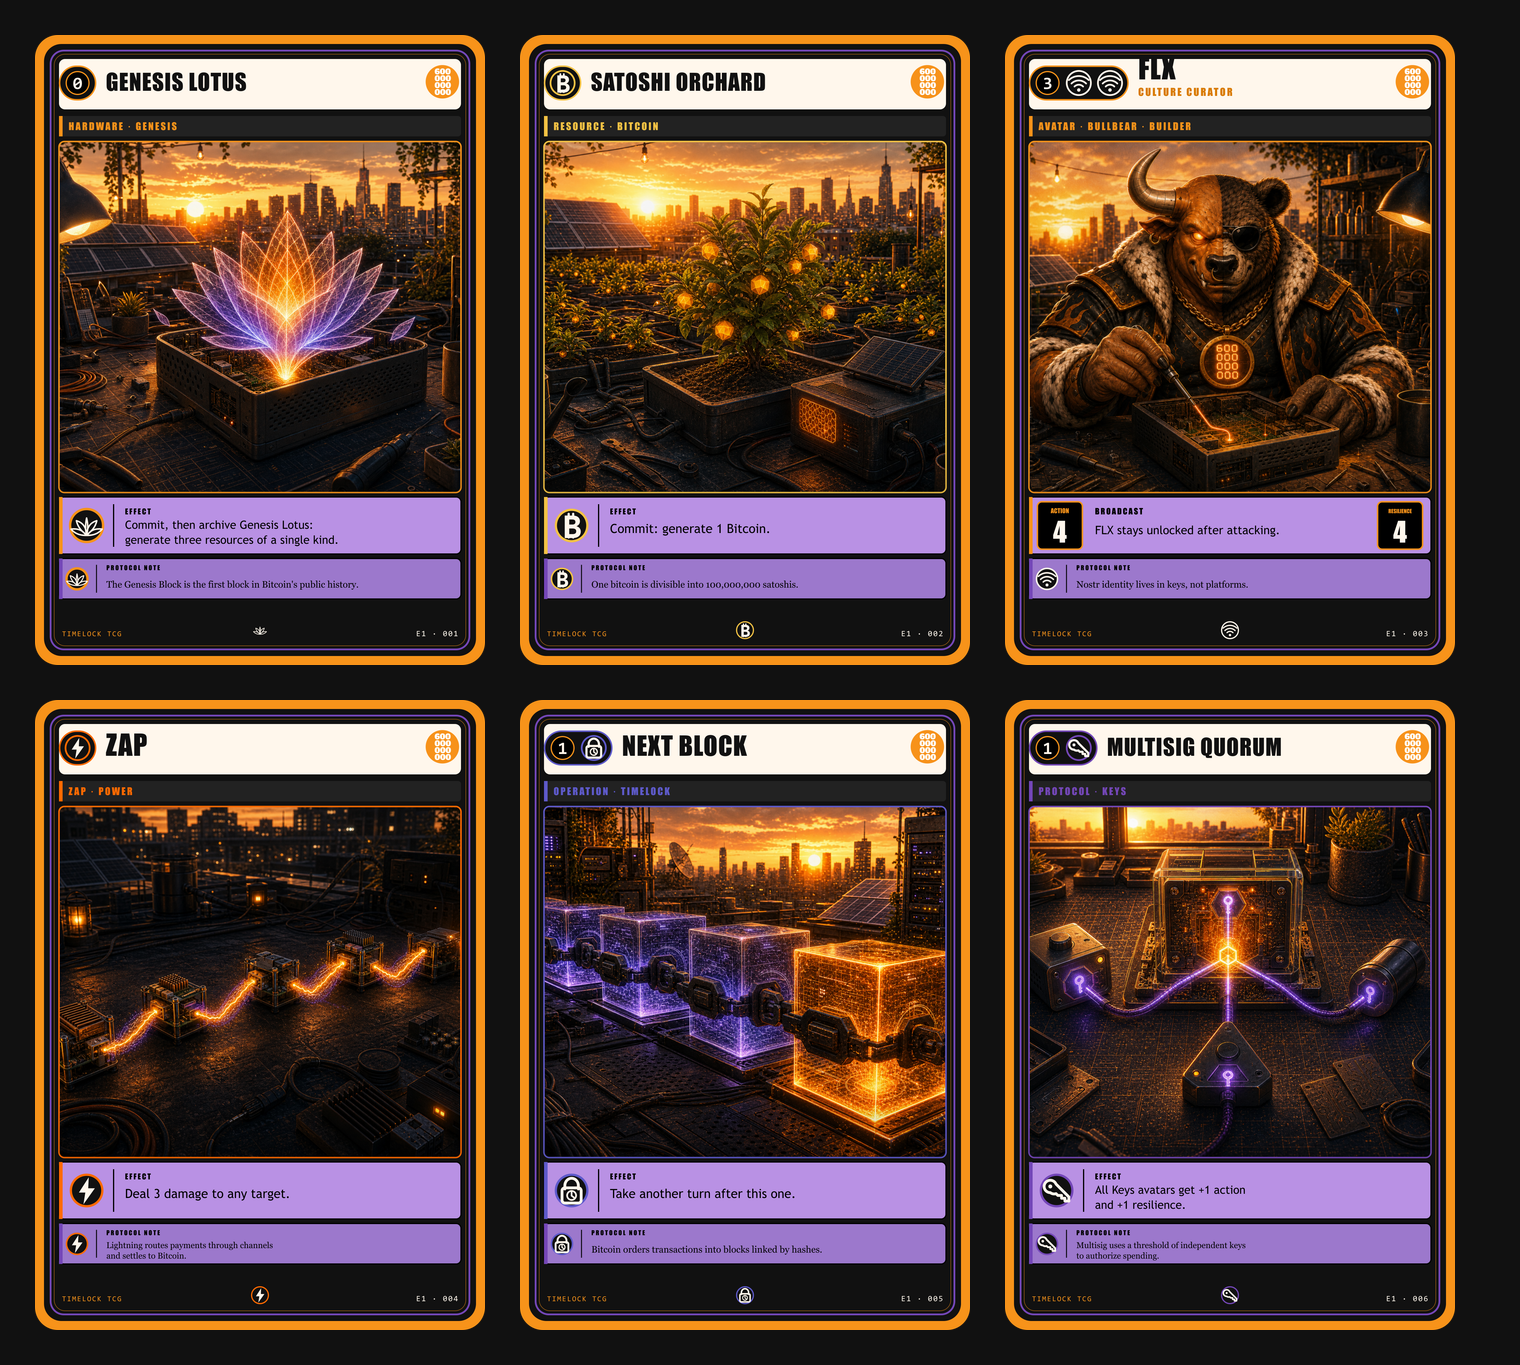
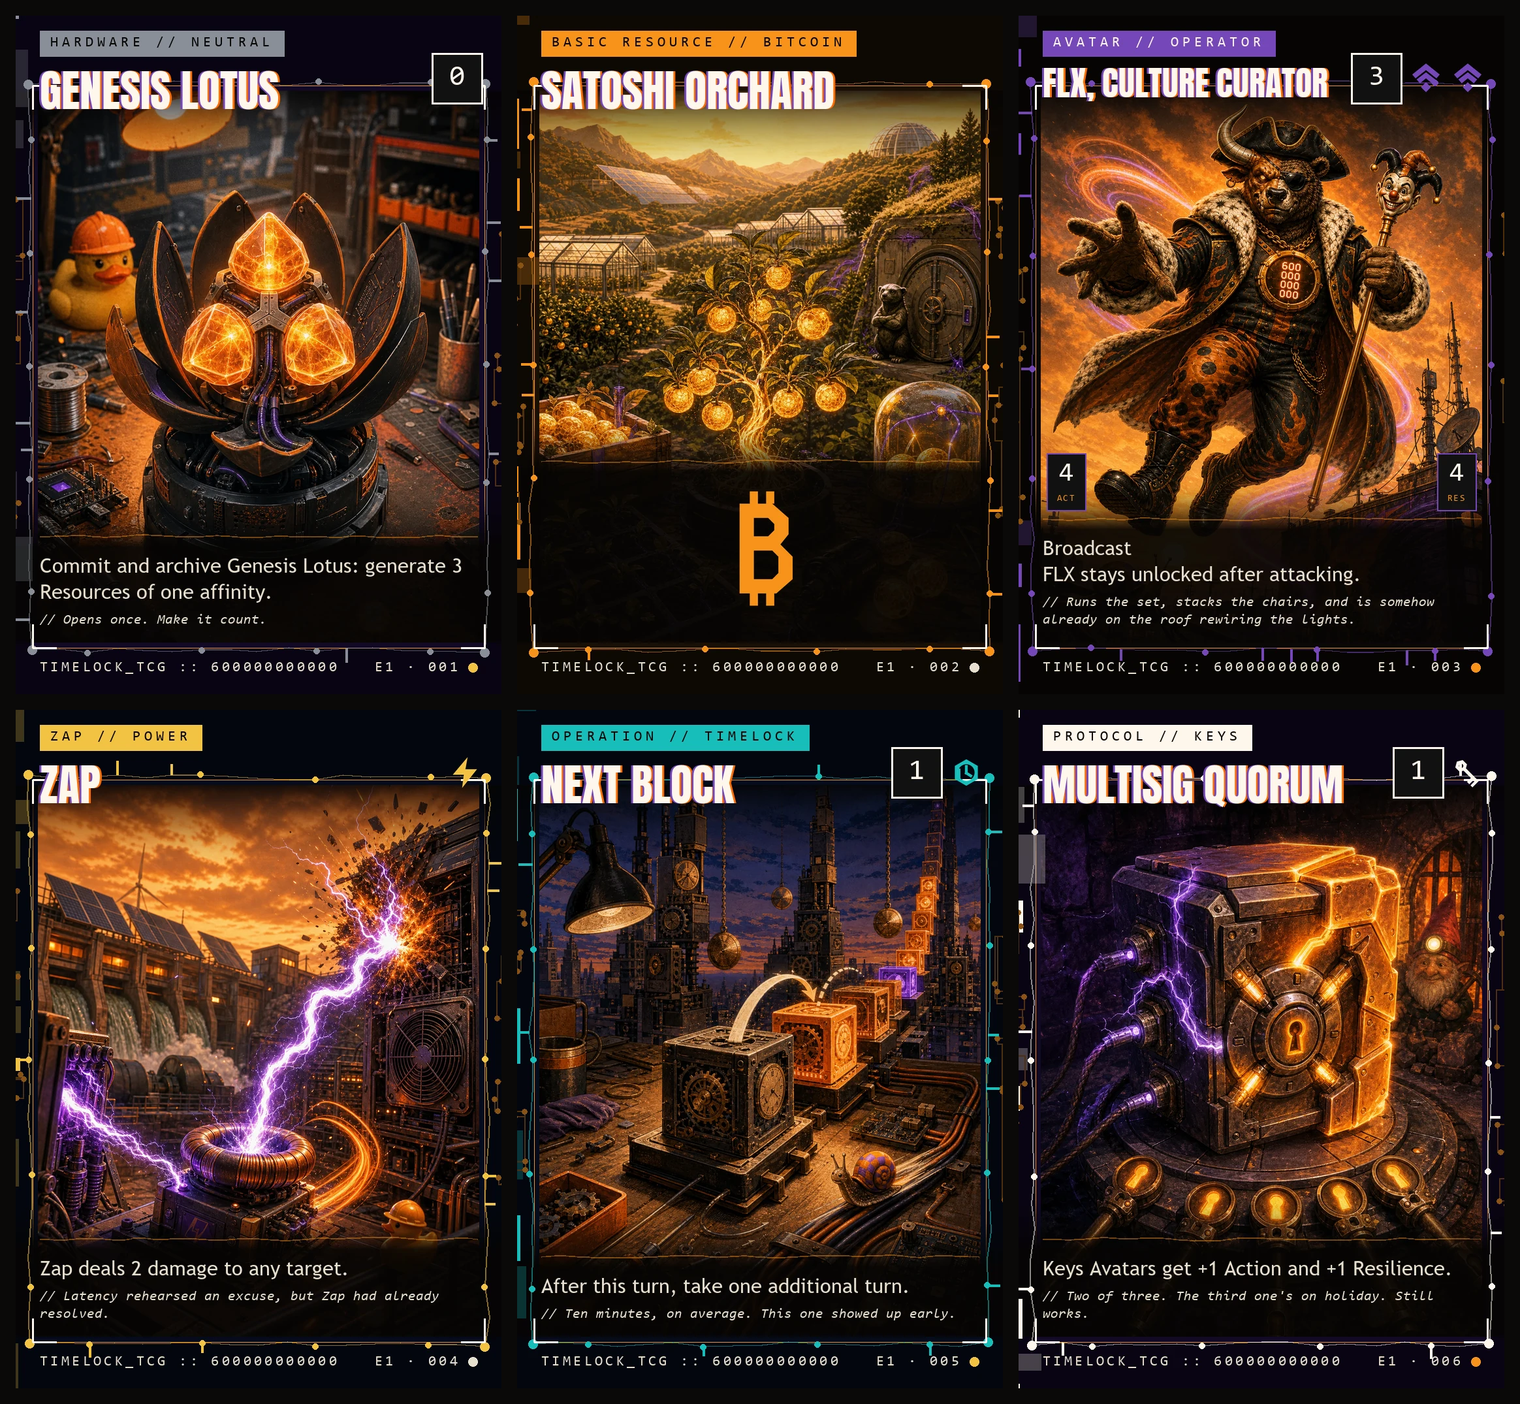
feat: audit the site's imagery and lock the website art prompts
The image audit behind this: card faces resolve live and are current, but the
five hero sections stretch 576px portrait world-plates across full desktop
width, two rulebook banners are flat vector diagrams with Arial type, the
social preview is the bare logo, and rules.html showed a contact sheet of a
card design that no longer exists.

WEBSITE-ART-PROMPTS.md locks ten generation prompts in the E1 v3 positive-
cypherpunk voice: seven page heroes (2880x1280, left third reserved for the
HTML headline), two illustrated banner replacements, one og card with a
composite-ready logo band. Each entry carries its final file path and the one
line of wiring that flips when the file lands; nothing is wired before it
exists because publish_site.py refuses missing assets.

The contact sheet is derived, not generated: rebuilt from six current faces,
and its caption stops describing the separate-text-plate design that the sheet
no longer shows.

diff --git a/site/rules.html b/site/rules.html
@@ -617,7 +617,7 @@ Cards may print <em>can&#39;t</em> for <em>cannot</em>.</p>
 <td>A factual learning note; no gameplay effect.</td>
 </tr>
 </tbody></table>
-<figure class="card-system-preview"><img src="../art/cards/600B-E1-iconic-six-contact-sheet.png" alt="Edition One card-system examples" loading="lazy"><figcaption>First six E1 pipeline proofs. Rules text and educational notes are rendered separately from the art.</figcaption></figure>
+<figure class="card-system-preview"><img src="../art/cards/600B-E1-iconic-six-contact-sheet.png" alt="Six Edition One card faces in the Node Runner frame" loading="lazy"><figcaption>Six Edition One faces in the Node Runner frame — the full illustration on the card, rules printed in full below it.</figcaption></figure>
 <h3 id="3-1-affinity">3.1 Affinity</h3>
 
 <p>A non-Resource card&#39;s affinity is normally defined by the specific Resource symbols in

diff --git a/art/prompts/WEBSITE-ART-PROMPTS.md b/art/prompts/WEBSITE-ART-PROMPTS.md
@@ -1,0 +1,138 @@
+# Website Art-Director Prompt Lock
+
+- Version: `600B-WEB-art-director-v1-positive-cypherpunk`
+- Assets: **10**
+- Tone: **positive cypherpunk — the future already works** (same lock as `600B-E1-art-director-v3`)
+- Visible artwork: **no text, letters, numbers, logos, card frames or interfaces** — every word on the website is set in HTML on top of the image
+- Character identity: **join.600.wtf Detailed ·front** references only; never invent people
+
+## Why these exist
+
+The audit of 2026-08-16 found the site's five hero sections stretch 576-px portrait
+world-plates to full desktop width, two rulebook banners are flat vector diagrams,
+and the social preview is the bare logo on black. Card faces on the site resolve
+live from `art/cards/node-runner-web/` and are already current; the world-plates
+stay in service as the arena stage backdrops and as palette references. This
+document replaces only the stretched heroes, the two flat banners and the social
+card.
+
+## Delivery standard
+
+- Generate at or above the target size, downscale to it, save WebP quality 90
+  (the og card saves PNG — link previews still mistrust WebP).
+- Every hero carries HTML type over its left third: keep that third calm, dark
+  and free of focal detail. The site adds its own black gradient on top.
+- File names below are final; the wiring table at the end lists the one line per
+  page that flips when a file lands. Do not wire a slot before its file exists —
+  `publish_site.py` refuses missing assets.
+
+---
+
+## WEB-01 · Homepage hero
+
+- **File:** `art/site/hero-index.webp` · **2880 × 1280**
+- **Slot:** `site/index.html` `.hero::before` (replaces stretched `timelock.png`)
+
+**Prompt**
+
+Create one finished 2880x1280 panoramic illustration for the homepage of 600 BILLION Timelock TCG, an unmistakably positive cypherpunk world where the future already works: self-owned identity, sound money and open peer-to-peer infrastructure built by capable friends. Show agency, hospitality, competence, humor and shared abundance with confident playful YOLO-but-verify energy. Use cinematic editorial realism with tactile screenprint grain, a matte-black core, warm Bitcoin-orange highlights and ultraviolet-purple accents. Scene: the whole world in one establishing shot — a rooftop commons at first sunrise light, mesh antennas and hand-built radios in the near ground, a flourishing orchard commons and blackened-steel workshop below, a warm city skyline waking up behind, one thin timelock beacon pulsing violet on the horizon. Composition: wide 9:4 panorama; all focal detail and the brightest light in the right two thirds; the left third falls to calm matte black for the headline. Late golden-hour warmth against deep ultraviolet shadows, believable open-source hardware, no people. Reference (world-and-palette): art/world-plates/timelock.png — treat as palette and material guidance, not layout. No card frame, title, text, letters, numbers, logos, watermark or interface. No generic hooded hacker, corporate Web3 advertising, dystopian surveillance, collapse porn, scarcity panic, weapons-first mood, grimdark lighting, helplessness or despair. Cypherpunk means freedom technology in daylight, not cyberpunk doom. No floating circles, wireframe polygons, ornamental geometry, meaningless crypto glyphs or repeated procedural patterns. Coherent single scene, polished key art.
+
+## WEB-02 · Rules hero
+
+- **File:** `art/site/hero-rules.webp` · **2880 × 1280**
+- **Slot:** `site/rules.html` `.hero` background (replaces `banner-01` stretched to 600 px tall)
+
+**Prompt**
+
+Create one finished 2880x1280 panoramic illustration for the rulebook page of 600 BILLION Timelock TCG, an unmistakably positive cypherpunk world where the future already works. Use cinematic editorial realism with tactile screenprint grain, a matte-black core, warm Bitcoin-orange highlights and ultraviolet-purple accents. Scene: the long shared table of the Palace of Culture community workshop set for a teaching session — blackened steel and timber, warm work lamps, neat rows of glowing orange resource markers and violet shield tokens laid out like a lesson, an open field manual with blank pages, coffee, plants, tools on shadow boards behind. The order of the table tells the story: everything has a place, every rule is learnable. Composition: wide 9:4 panorama, table receding to the right, focal lamp-pool on the right half, left third calm matte black for the headline. Warm practical lighting, no people. No card frame, title, text, letters, numbers, logos, watermark or interface; the manual's pages are blank. No generic hooded hacker, corporate Web3 advertising, dystopian surveillance, collapse porn, scarcity panic, weapons-first mood, grimdark lighting, helplessness or despair. No floating circles, wireframe polygons, ornamental geometry, meaningless crypto glyphs or repeated procedural patterns. Coherent single scene, polished key art.
+
+## WEB-03 · Quickstart hero
+
+- **File:** `art/site/hero-quickstart.webp` · **2880 × 1280**
+- **Slot:** `site/quickstart.html` hero background (replaces stretched `power.png`)
+
+**Prompt**
+
+Create one finished 2880x1280 panoramic illustration for the quickstart page of 600 BILLION Timelock TCG, an unmistakably positive cypherpunk world where the future already works: self-owned identity, sound money and open peer-to-peer infrastructure built by capable friends. Use cinematic editorial realism with tactile screenprint grain, a matte-black core, warm Bitcoin-orange highlights and ultraviolet-purple accents. Identity locks: reproduce FLX from art/references/join-detailed-front/flx.png and MadMunky from art/references/join-detailed-front/madmunky.png exactly — same species, faces, proportions, silhouettes, wardrobe, materials, colors and signature accessories. Do not invent any other people or characters. Scene: FLX and MadMunky at a small workshop table mid-game, leaning in, one grinning mid-move — the game state told entirely through glowing orange resource markers, violet shield domes and small hand-built devices between them, never through cards. Hospitality details: coffee, a rubber duck referee, warm lamps, sunrise through the window. Composition: wide 9:4 panorama, the two players and the table in the right two thirds, left third calm matte black for the headline. Warm practical lighting, believable hardware. No card frame, no playing cards, no title, text, letters, numbers, logos, watermark or interface. No generic hooded hacker, corporate Web3 advertising, dystopian surveillance, collapse porn, scarcity panic, weapons-first mood, grimdark lighting, helplessness or despair. No floating circles, wireframe polygons, ornamental geometry, meaningless crypto glyphs or repeated procedural patterns. Coherent single scene, polished key art.
+
+## WEB-04 · Lore hero
+
+- **File:** `art/site/hero-lore.webp` · **2880 × 1280**
+- **Slot:** `site/lore.html` hero background (replaces stretched `signal.png`)
+
+**Prompt**
+
+Create one finished 2880x1280 panoramic illustration for the lore page of 600 BILLION Timelock TCG, an unmistakably positive cypherpunk world where the future already works. Use cinematic editorial realism with tactile screenprint grain, a matte-black core, warm Bitcoin-orange highlights and ultraviolet-purple accents. Scene: the city of the Node Runners at violet dusk seen from a high rooftop — strings of warm lights between hand-raised antenna masts, laundry lines beside dish arrays, an orchard glowing on a far roof, relay light hopping visibly from mast to mast into the distance, the last sun on the horizon. The infrastructure carries the story: a city that talks to itself because its people built the wires. Composition: wide 9:4 panorama, depth running to the right, left third calm deep dusk for the headline. No people. No card frame, title, text, letters, numbers, logos, watermark or interface. No generic hooded hacker, corporate Web3 advertising, dystopian surveillance, collapse porn, scarcity panic, weapons-first mood, grimdark lighting, helplessness or despair. Cypherpunk means freedom technology in daylight, not cyberpunk doom. No floating circles, wireframe polygons, ornamental geometry, meaningless crypto glyphs or repeated procedural patterns. Coherent single scene, polished key art.
+
+## WEB-05 · Play-lobby hero
+
+- **File:** `art/site/hero-play.webp` · **2880 × 1280**
+- **Slot:** `site/play.html` lobby background (replaces stretched `power.png`; the per-affinity arena stage keeps the world-plates)
+
+**Prompt**
+
+Create one finished 2880x1280 panoramic illustration for the play lobby of 600 BILLION Timelock TCG, an unmistakably positive cypherpunk world where the future already works. Use cinematic editorial realism with tactile screenprint grain, a matte-black core, warm Bitcoin-orange highlights and ultraviolet-purple accents. Scene: the arena the moment before a match — a two-seat table of blackened steel under one warm cone of light, two empty chairs facing, two hand-built player rigs docked and idling with soft status glows, one orange, one violet, a neat queue lane of small lights leading to the table, the workshop dark and expectant around it. Anticipation without menace: this is a friendly duel in a room built by friends. Composition: wide 9:4 panorama, table and light-cone in the right two thirds, left third calm matte black for the headline. No people. No card frame, title, text, letters, numbers, logos, watermark or interface. No generic hooded hacker, corporate Web3 advertising, dystopian surveillance, collapse porn, scarcity panic, weapons-first mood, grimdark lighting, helplessness or despair. No floating circles, wireframe polygons, ornamental geometry, meaningless crypto glyphs or repeated procedural patterns. Coherent single scene, polished key art.
+
+## WEB-06 · Shop hero
+
+- **File:** `art/site/hero-shop.webp` · **2880 × 1280**
+- **Slot:** `site/shop.html` (new hero — the page currently opens with bare text)
+
+**Prompt**
+
+Create one finished 2880x1280 panoramic illustration for the booster shop of 600 BILLION Timelock TCG, an unmistakably positive cypherpunk world where the future already works. Use cinematic editorial realism with tactile screenprint grain, a matte-black core, warm Bitcoin-orange highlights and ultraviolet-purple accents. Scene: the print commons where boosters are born — a beautiful hand-cranked press of blackened steel and brass mid-run, crisp blank foil packs in warm orange metallic wrap sliding down a timber chute into an open wooden crate, one pack catching the lamp light mid-fall, drifts of violet ink mist, the fairness of the run told physically by a sealed glass counting jar of finished packs. Abundance through patient work, not luxury spectacle. Composition: wide 9:4 panorama, press and falling pack in the right two thirds, left third calm matte black for the headline. Warm practical lighting, no people. The foil packs are blank — no card frame, title, text, letters, numbers, logos, watermark or interface anywhere. No corporate Web3 advertising, dystopian surveillance, collapse porn, scarcity panic, grimdark lighting. No floating circles, wireframe polygons, ornamental geometry, meaningless crypto glyphs or repeated procedural patterns. Coherent single scene, polished key art.
+
+## WEB-07 · Leaderboard hero
+
+- **File:** `art/site/hero-leaderboard.webp` · **2880 × 1280**
+- **Slot:** `site/leaderboard.html` (new hero — the page currently opens with bare text)
+
+**Prompt**
+
+Create one finished 2880x1280 panoramic illustration for the leaderboard page of 600 BILLION Timelock TCG, an unmistakably positive cypherpunk world where the future already works. Use cinematic editorial realism with tactile screenprint grain, a matte-black core, warm Bitcoin-orange highlights and ultraviolet-purple accents. Scene: the hall of uptime — a long workshop wall where hundreds of small hand-made plaques of blackened steel each hold one steady orange signal lamp, a few burning brighter near the top, violet service light along the floor, a wheeled library ladder leaning against the wall, one plaque being polished by lamplight on a bench below. Reputation as maintained infrastructure: every lamp is lit because someone keeps it lit. Composition: wide 9:4 panorama, the wall raking away to the right, left third calm matte black for the headline. No people. The plaques are blank — no card frame, title, text, letters, numbers, logos, watermark or interface. No corporate Web3 advertising, dystopian surveillance, collapse porn, scarcity panic, grimdark lighting. No floating circles, wireframe polygons, ornamental geometry, meaningless crypto glyphs or repeated procedural patterns. Coherent single scene, polished key art.
+
+## WEB-08 · Rulebook banner — Five Resources
+
+- **File:** `art/rulebook/banner-02-five-resources.webp` · **1600 × 480** (replaces the flat SVG; `site/rules.html` img src changes `.svg` → `.webp`)
+
+**Prompt**
+
+Create one finished 1600x480 wide illustration for the rulebook of 600 BILLION Timelock TCG, an unmistakably positive cypherpunk world where the future already works. Use cinematic editorial realism with tactile screenprint grain, a matte-black core, warm Bitcoin-orange highlights and ultraviolet-purple accents. Scene: one long workbench holding the five tools of the network as five distinct working stations, left to right in exactly this order — a humming amber power cell on a coil charger; a small orchard-tree in a steel planter heavy with warm-glowing fruit; a rack of ornate physical keys above a vault drawer; a hand-built antenna mast with a visible relay pulse; and a violet-lit timelock vault whose door stands ajar on a clockwork interior. Each station distinct in silhouette, all one bench, one warm light. Composition: strict left-to-right rhythm of five focal points, camera straight on, shallow table depth. No people. No card frame, title, text, letters, numbers, logos, watermark or interface — no currency symbols on the fruit or anywhere. No floating circles, wireframe polygons, ornamental geometry, meaningless crypto glyphs or repeated procedural patterns. No corporate Web3 advertising, grimdark lighting. Coherent single scene, polished key art.
+
+## WEB-09 · Rulebook banner — Clash
+
+- **File:** `art/rulebook/banner-05-clash.webp` · **1600 × 480** (replaces the flat vector diagram)
+
+**Prompt**
+
+Create one finished 1600x480 wide illustration for the rulebook of 600 BILLION Timelock TCG, an unmistakably positive cypherpunk world where the future already works. Use cinematic editorial realism with tactile screenprint grain, a matte-black core, warm Bitcoin-orange highlights and ultraviolet-purple accents. Scene: the clash — two hand-built rigs facing each other across a short steel table, the attacker on the left releasing one clean arc of orange energy, the defender on the right holding it on a violet resilience dome, the arc bending where they meet, sparks falling as harmless warm embers, both machines sturdy and unafraid. A contest of engineering, not a war: no damage, no smoke, just force meeting design. Composition: symmetric duel across the wide frame, the meeting point of orange and violet exactly at center, dark calm edges. No people. No card frame, title, text, letters, numbers, logos, watermark or interface. No weapons, no destruction, no grimdark lighting, no collapse porn. No floating circles, wireframe polygons, ornamental geometry, meaningless crypto glyphs or repeated procedural patterns. Coherent single scene, polished key art.
+
+## WEB-10 · Social preview card
+
+- **File:** `art/site/og-card.png` · **1200 × 630** (replaces the bare logo in `og:image` / `twitter:image`; after generation, composite `art/brand/600B-logo-primary.png` at ~180 px into the calm left band)
+
+**Prompt**
+
+Create one finished 1200x630 illustration to serve as the link-preview card of 600 BILLION Timelock TCG, an unmistakably positive cypherpunk world where the future already works. Use cinematic editorial realism with tactile screenprint grain, a matte-black core, warm Bitcoin-orange highlights and ultraviolet-purple accents. Scene: one iconic image — the Genesis Lotus device blooming open on a workshop bench at sunrise, raw energy condensing into glowing countable units above its petals, the warm city soft in the bokeh beyond, a tiny rubber duck in a hard hat supervising from beside a coffee cup. Composition: the lotus at two-thirds right, crisp and heroic at thumbnail size; the left third calm matte black reserved for a logo that will be composited later. High contrast, one focal subject, readable at 300 px wide. No people. No card frame, title, text, letters, numbers, logos, watermark or interface in the generated image. No corporate Web3 advertising, grimdark lighting, lens-flare spam, glossy 3d-render plastic look. No floating circles, wireframe polygons, ornamental geometry, meaningless crypto glyphs or repeated procedural patterns. Coherent single scene, polished key art.
+
+---
+
+## Wiring table — flip each line only when its file exists
+
+| Asset | File to land | Line to change |
+|---|---|---|
+| WEB-01 | `art/site/hero-index.webp` | `site/index.html:73` `.hero::before` background url |
+| WEB-02 | `art/site/hero-rules.webp` | `site/rules.html:338` `.hero` background |
+| WEB-03 | `art/site/hero-quickstart.webp` | `site/quickstart.html:28` hero background url |
+| WEB-04 | `art/site/hero-lore.webp` | `site/lore.html:35` hero background url |
+| WEB-05 | `art/site/hero-play.webp` | `site/play.html:36` lobby background url |
+| WEB-06 | `art/site/hero-shop.webp` | `site/shop.html` — add hero section |
+| WEB-07 | `art/site/hero-leaderboard.webp` | `site/leaderboard.html` — add hero section |
+| WEB-08 | `art/rulebook/banner-02-five-resources.webp` | `site/rules.html` img src `.svg` → `.webp` |
+| WEB-09 | `art/rulebook/banner-05-clash.webp` | (same filename — no wiring) |
+| WEB-10 | `art/site/og-card.png` | `site/index.html:16-23` og/twitter image + width/height |
+
+Unchanged on purpose: the four illustrated rulebook banners (01, 03, 04, 06) are
+on-style; the five world-plates keep serving the per-affinity arena stage and the
+prompt-reference role; `art/cards/600B-E1-iconic-six-contact-sheet.png` is derived
+from the live faces by script, never generated.
